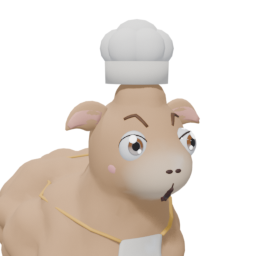
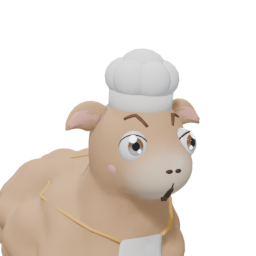
Seat Mo's chef hat on his head instead of on his crown puff
The toque was placed on the outermost hit above the head, the top of the
wool puff, so its band floated about 12 cm over the head around the rim.
It now sits on a plane fitted to the head's height under the rim, sunk
into the wool, and Mo's head height for bubbles follows it down.

Changed region(s): [[0.375, 0.0625, 0.7188, 0.4375]]

diff --git a/lib/render/llama_rig.dart b/lib/render/llama_rig.dart
@@ -58,7 +58,7 @@ final Map<String, LlamaSpec> llamaSpecs = {
   // Mo plods: short heavy steps, a rolling waddle.
   'Mo': LlamaSpec(
     id: 'mo',
-    headHeight: 1.98,
+    headHeight: 1.83,
     head: vm.Vector3(0, 1.40, -0.56),
     walkSeconds: 32 / 30,
     strideMetres: 0.47,

diff --git a/tool/blender/llama.py b/tool/blender/llama.py
@@ -740,8 +740,26 @@ def _toque(P, g, surf, geo):
     white, band = c.hexc("#FBF8F2"), c.hexc("#EFE9DD")
     up = (UP + _v(-0.12, 0, 0)).normalized()
     up, sv, fw = basis_from(up, up=FWD)
-    base = top - up * 0.03
     r = hh.y * 0.62
+    # The crown's wool puff stands about 12 cm above the head under the
+    # band's rim, so a band seated on the outermost hit floats. Seat it on
+    # a plane fitted to the head's height around the rim (mean and first
+    # harmonic), sunk 3 cm into the wool and centred a little forward, so
+    # the puff ends up inside the hat.
+    top = top + fw * 0.035
+    n = 16
+    heights = []
+    for k in range(n):
+        a = 2 * math.pi * k / n
+        d = fw * math.cos(a) + sv * math.sin(a)
+        hit, _ = surf(top + d * r - up * 0.3, up)
+        heights.append(((hit - top).dot(up), a))
+    mean = sum(hv for hv, _ in heights) / n
+    tilt_fw = 2 / n * sum(hv * math.cos(a) for hv, a in heights) / r
+    tilt_sv = 2 / n * sum(hv * math.sin(a) for hv, a in heights) / r
+    seat = top + up * mean
+    up, sv, fw = basis_from((up - fw * tilt_fw - sv * tilt_sv).normalized(), up=FWD)
+    base = seat - up * 0.025
     geo.cylinder(frame(base + up * 0.05, fw, sv, up, r, r, 0.055), band, "Cloth", seg=20, r_top=1.02)
     for k in range(6):
         a = 2 * math.pi * k / 6
